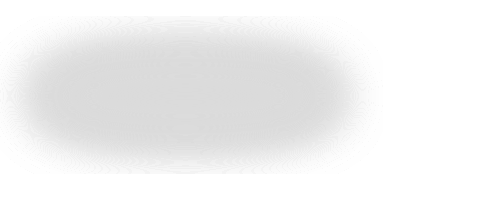
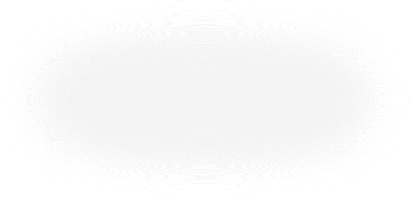
Hiteks updated
Final updated

Changed region(s): [[0.0585, 0.21, 0.6439, 0.72]]

diff --git a/css/style.css b/css/style.css
@@ -124,7 +124,7 @@ textarea:focus, input:focus, a:focus, *:focus {
 	padding-left: 20px;*/
 	min-height: 362px;
 	background:url("../images/body-bg.png");
-
+	background-size:100%;
 	
 }
 
@@ -212,57 +212,57 @@ p.header {
 /* ==== Section Headers ==== */
 
 #services-top-desktop {
-	background: #fff url(../img/services_bg.jpg) fixed no-repeat center;
+	background: #fff url(../img/about_bg.jpg) fixed no-repeat center;
 	/*background-color:#57466A;*/
 	background-size: cover;
 }
 
 #services-top-mobile {
-	background: #fff url(../img/services_bg.jpg) no-repeat center;
+	background: #fff url(../img/about_bg.jpg) no-repeat center;
 	/*background-color:#57466A;*/
 }
 
 #works-top-desktop {
-	background: #fff url(../img/works_bg.jpg) fixed no-repeat center;
+	background: #fff url(../img/products_bg.jpg) fixed no-repeat center;
 	/*background-color:#57466A;*/
 	background-size: cover;
 }
 
 #works-top-mobile {
-	background: #fff url(../img/works_bg.jpg) no-repeat center;
+	background: #fff url(../img/products_bg.jpg) no-repeat center;
 	/*background-color:#57466A;*/
 }
 
 #gallery-top-desktop {
-	background: #fff url(../img/gallery_bg.jpg) fixed no-repeat center;
+	background: #fff url(../img/services_bg.jpg) fixed no-repeat center;
 	/*background-color:#57466A;*/
 	background-size: cover;
 }
 
 #gallery-top-mobile {
-	background: #fff url(../img/gallery_bg.jpg) no-repeat center;
+	background: #fff url(../img/services_bg.jpg) no-repeat center;
 /*	background-color:#57466A;*/
 }
 
 #team-top-desktop {
-	background: #fff url(../img/team_bg.jpg) fixed no-repeat center;
+	background: #fff url(../img/support_bg.jpg) fixed no-repeat center;
 	/*background-color:#57466A;*/
 	background-size: cover;
 }
 
 #team-top-mobile {
-	background: #fff url(../img/team_bg.jpg) no-repeat center;
+	background: #fff url(../img/support_bg.jpg) no-repeat center;
 	/*background-color:#57466A;*/
 }
 
 #contact-top-desktop {
-	background: #fff url(../img/contact_bg.jpg) fixed no-repeat center;
+	background: #fff url(../img/Login_bg.jpg) fixed no-repeat center;
 	/*background-color:#57466A;*/
 	background-size: cover;
 }
 
 #contact-top-mobile {
-	background: #fff url(../img/contact_bg.jpg) no-repeat center;
+	background: #fff url(../img/Login_bg.jpg) no-repeat center;
 	/*background-color:#57466A;*/
 }
 
@@ -480,6 +480,7 @@ input[type="text"], select, textarea {
 	color:#F24BD0;
 	height:15px;
 	background: #a0a0a0; /* Old browsers */
+	outline:none;
 background: -moz-linear-gradient(top,  #a0a0a0 0%, #cccccc 100%); /* FF3.6+ */
 background: -webkit-gradient(linear, left top, left bottom, color-stop(0%,#a0a0a0), color-stop(100%,#cccccc)); /* Chrome,Safari4+ */
 background: -webkit-linear-gradient(top,  #a0a0a0 0%,#cccccc 100%); /* Chrome10+,Safari5.1+ */
@@ -529,6 +530,7 @@ filter: progid:DXImageTransform.Microsoft.gradient( startColorstr='#a0a0a0', end
 	text-transform: uppercase;
 	font-size: 10px;
 	height:15px;
+	outline:none;
 }
 
 @media (max-width: 979px) {
@@ -1079,6 +1081,7 @@ filter: progid:DXImageTransform.Microsoft.gradient( startColorstr='#a0a0a0', end
 	width:950px;
 	height:auto;
 	margin:auto auto;
+	position:relative;
 }
 .footer-blog1{
 	padding-top:23px;
@@ -1262,12 +1265,18 @@ padding-left:300px;}
 	margin-left:-20px;
 }*/
 
+@media (max-width: 978px){
+.row, .thumbnails {
+margin-left: 50px;
+}
+}
 @media (max-width: 767px){
 .row, .thumbnails {
 margin-left: -250px;
 }
 }
-@media (max-width: 668px){
+
+@media (max-width: 660px){
 	.row, .thumbnails {
 		margin-left: -350px;
 	}
@@ -1318,6 +1327,30 @@ margin-left: -250px;
 	margin:auto;
 	padding-top:80px;
 }
-.webmaster{
-	margin-left:30px;
+.desinBy{
+	margin-top:75px;
+	font-size:10px;
 }
+.desinBy a{
+	font-size:10px;
+}
+.design{
+	font-size:12px;
+}
+/*changes*/
+.footer-upper a{
+	width:95px;
+	height:20px;
+	font-size:11px;
+	color:#000;
+}
+.footer-upper a:hover {
+	color:#000;
+}
+/* class: .btn-mfast-5,  color theme: mFast */
+.btn-mfast-5 { text-shadow: 0px 1px 0px #ffffff; color: #a2a2a2; background-color: #F2F2F2; background-image: -moz-linear-gradient(top, #ffffff, #d4d4d4); background-image: -ms-linear-gradient(top, #ffffff, #d4d4d4); background-image: -webkit-gradient(linear, 0 0, 0 100%, from(#ffffff), to(#d4d4d4)); background-image: -webkit-linear-gradient(top, #ffffff, #d4d4d4); background-image: -o-linear-gradient(top, #ffffff, #d4d4d4); background-image: linear-gradient(top, #ffffff, #d4d4d4); filter: progid:DXImageTransform.Microsoft.gradient(startColorstr='#ffffff', endColorstr='#d4d4d4', GradientType=0); border-color: #F2F2F2 #d4d4d4 #d4d4d4 #F2F2F2; border-color: rgba(0, 0, 0, 0.25) rgba(0, 0, 0, 0.35) rgba(0, 0, 0, 0.35) rgba(0, 0, 0, 0.25); }
+.btn-mfast-5:hover, .btn-mfast-5:active, .btn-mfast-5.active, .btn-mfast-5.disabled, .btn-mfast-5[disabled] { background-color: #d4d4d4; }
+.btn-mfast-5:hover { color: #8e8e8e; text-shadow: 0px 1px 0px #ffffff; }
+.btn-mfast-5:focus { color: #525252; -webkit-box-shadow: inset 0 2px 4px rgba(0, 0, 0, 0.15), 0 1px 2px rgba(0, 0, 0, 0.05); -moz-box-shadow: inset 0 2px 4px rgba(0, 0, 0, 0.15), 0 1px 2px rgba(0, 0, 0, 0.05); box-shadow: inset 0 2px 4px rgba(0, 0, 0, 0.15), 0 1px 2px rgba(0, 0, 0, 0.05); border-color: #F2F2F2 #d4d4d4 #d4d4d4 #F2F2F2; border-color: rgba(0, 0, 0, 0.25) rgba(0, 0, 0, 0.35) rgba(0, 0, 0, 0.35) rgba(0, 0, 0, 0.25); }
+.btn-mfast-5.active, .btn-mfast-5:active { background-image: none; -webkit-box-shadow: inset 0 2px 4px rgba(0, 0, 0, 0.15), 0 1px 2px rgba(0, 0, 0, 0.05); -moz-box-shadow: inset 0 2px 4px rgba(0, 0, 0, 0.15), 0 1px 2px rgba(0, 0, 0, 0.05); box-shadow: inset 0 2px 4px rgba(0, 0, 0, 0.15), 0 1px 2px rgba(0, 0, 0, 0.05); color: #525252; }
+/* end .btn-mfast-5 */

diff --git a/css/bootstrap.min.css b/css/bootstrap.min.css
@@ -338,7 +338,7 @@ legend+.control-group{margin-top:20px;-webkit-margin-top-collapse:separate;}
 .form-horizontal .help-block{margin-bottom:0;}
 .form-horizontal input+.help-block,.form-horizontal select+.help-block,.form-horizontal textarea+.help-block,.form-horizontal .uneditable-input+.help-block,.form-horizontal .input-prepend+.help-block,.form-horizontal .input-append+.help-block{margin-top:10px;}
 .form-horizontal .form-actions{padding-left:180px;}
-.btn{display:inline-block;*display:inline;*zoom:1;padding:4px 12px;margin-bottom:0;font-size:14px;line-height:20px;text-align:center;vertical-align:middle;cursor:pointer;color:#333333;text-shadow:0 1px 1px rgba(255, 255, 255, 0.75);background-color:#f5f5f5;background-color:-moz-linear-gradient(top, #ffffff, #e6e6e6);background-color:-webkit-gradient(linear, 0 0, 0 100%, from(#ffffff), to(#e6e6e6));background-color:-webkit-linear-gradient(top, #ffffff, #e6e6e6);background-color:-o-linear-gradient(top, #ffffff, #e6e6e6);background-color:linear-gradient(to bottom, #ffffff, #e6e6e6);background-repeat:repeat-x;filter:progid:DXImageTransform.Microsoft.gradient(startColorstr='#ffffffff', endColorstr='#ffe6e6e6', GradientType=0);border-color:#e6e6e6 #e6e6e6 #bfbfbf;border-color:rgba(0, 0, 0, 0.1) rgba(0, 0, 0, 0.1) rgba(0, 0, 0, 0.25);*background-color:#e6e6e6;filter:progid:DXImageTransform.Microsoft.gradient(enabled = false);/*border:1px solid #bbbbbb;*/*border:0;border-bottom-color:#a2a2a2;-webkit-border-radius:4px;-moz-border-radius:4px;border-radius:4px;*margin-left:.3em;-webkit-box-shadow:inset 0 1px 0 rgba(255,255,255,.2), 0 1px 2px rgba(0,0,0,.05);-moz-box-shadow:inset 0 1px 0 rgba(255,255,255,.2), 0 1px 2px rgba(0,0,0,.05);box-shadow:inset 0 1px 0 rgba(255,255,255,.2), 0 1px 2px rgba(0,0,0,.05);}.btn:hover,.btn:active,.btn.active,.btn.disabled,.btn[disabled]{color:#333333;background-color:#e6e6e6;*background-color:#d9d9d9;}
+.btn{display:inline-block;*display:inline;*zoom:1;padding:4px 5px;margin-bottom:0;font-size:14px;line-height:20px;text-align:center;vertical-align:middle;cursor:pointer;color:#333333;text-shadow:0 1px 1px rgba(255, 255, 255, 0.75);background-color:#f5f5f5;background-color:-moz-linear-gradient(top, #ffffff, #e6e6e6);background-color:-webkit-gradient(linear, 0 0, 0 100%, from(#ffffff), to(#e6e6e6));background-color:-webkit-linear-gradient(top, #ffffff, #e6e6e6);background-color:-o-linear-gradient(top, #ffffff, #e6e6e6);background-color:linear-gradient(to bottom, #ffffff, #e6e6e6);background-repeat:repeat-x;filter:progid:DXImageTransform.Microsoft.gradient(startColorstr='#ffffffff', endColorstr='#ffe6e6e6', GradientType=0);border-color:#e6e6e6 #e6e6e6 #bfbfbf;border-color:rgba(0, 0, 0, 0.1) rgba(0, 0, 0, 0.1) rgba(0, 0, 0, 0.25);*background-color:#e6e6e6;filter:progid:DXImageTransform.Microsoft.gradient(enabled = false);/*border:1px solid #bbbbbb;*/*border:0;border-bottom-color:#a2a2a2;-webkit-border-radius:4px;-moz-border-radius:4px;border-radius:4px;*margin-left:.3em;-webkit-box-shadow:inset 0 1px 0 rgba(255,255,255,.2), 0 1px 2px rgba(0,0,0,.05);-moz-box-shadow:inset 0 1px 0 rgba(255,255,255,.2), 0 1px 2px rgba(0,0,0,.05);box-shadow:inset 0 1px 0 rgba(255,255,255,.2), 0 1px 2px rgba(0,0,0,.05);}.btn:hover,.btn:active,.btn.active,.btn.disabled,.btn[disabled]{color:#333333;background-color:#e6e6e6;*background-color:#d9d9d9;}
 .btn:active,.btn.active{background-color:#cccccc \9;}
 .btn:first-child{*margin-left:0;}
 .btn:hover{background-color:#F24BD0;color:#fff;text-decoration:none;background-position:0 -15px;-webkit-transition:all 0.1s linear;-moz-transition:all 0.1s linear;-o-transition:all 0.1s linear;transition:all 0.1s linear;}

diff --git a/index.php b/index.php
@@ -86,11 +86,12 @@
 							</div>
 						</div>
 					</div>	
+					
 					<?php
 						$img=1;
 						for($i=1;$i<=50;$i++){
 							$img++;
-							if($img==33){
+							if($img==51){
 								$img=1;
 							}
 							echo "<div class='$i aObjects' style='display:none;opacity:.3;position:absolute;z-index:1;left:50%;top:40%;'><img alt='icon' src='icon/$img.png'/></div>";
@@ -101,7 +102,7 @@
 			<div class="footer-upper">
 				<div class="wrapper">
 					<p style="color:#000;">Expert Medial terminolgy simplified & explained with our easy search toolkit & advanced API. Anyone can use Hiteks, because everyone's time is valuable.</p>
-					<p class="text" style="color:#000">Medicine's First and Only affordable & Accurate Clinical NLP Solution, <img alt="image" src="images/licence-img.png" style="padding-left:40px; padding-right:5px;"> Licence it Now  <img alt="image" src="images/video.png" style="padding-left:35px; padding-right:3px;"> Watch demo</p>
+					<p class="text" style="color:#000">Medicine's First and Only affordable & Accurate Clinical NLP Solution <a href="#" class="btn btn-mfast-5" style="margin-left:20px;"><img alt="image" src="images/licence-img.png" /> Licence it Now</a><a href="#" class="btn btn-mfast-5" style="margin-left:10px;"><img alt="image" src="images/video.png" /> Watch demo</a></p>
 				</div>
 			</div>
 			<hr class="horizontal-line" />
@@ -811,6 +812,11 @@
 						<a href="#intro" class="brand"><img alt="image" src="images/logo.png"></a>
 						<p>2013 © Hiteks</p><br>
 						<!--<p>myway is product <br> of <a href="http://www.awerest.com" target="_blank">awerest</a></p><br>-->
+						<div class="desinBy">
+							<span class="design">Design by</span><br/>
+							<span><a href="http://dannyglix.com">Glix</a> & James
+							<a href="http://voris.org">Voris</a></span>
+						</div>
 					</div>
 	<!--footer menu-->
 					<div class="span2 offset4">
@@ -833,10 +839,6 @@
 							<li><a class="instagram" href="#" target="_blank">Instagram</a></li>
 							<li><a class="pinterest" href="#" target="_blank">Pinterest</a></li>
 						</ul>
-					</div>
-					<div class="webmaster">
-						<span style="margin-left:117px;">Webmaster</span><br/>
-						<span style="font-size:10px; margin-left:117px;">Danny Glix</span>
 					</div>
 				</div>	
 			</div>
